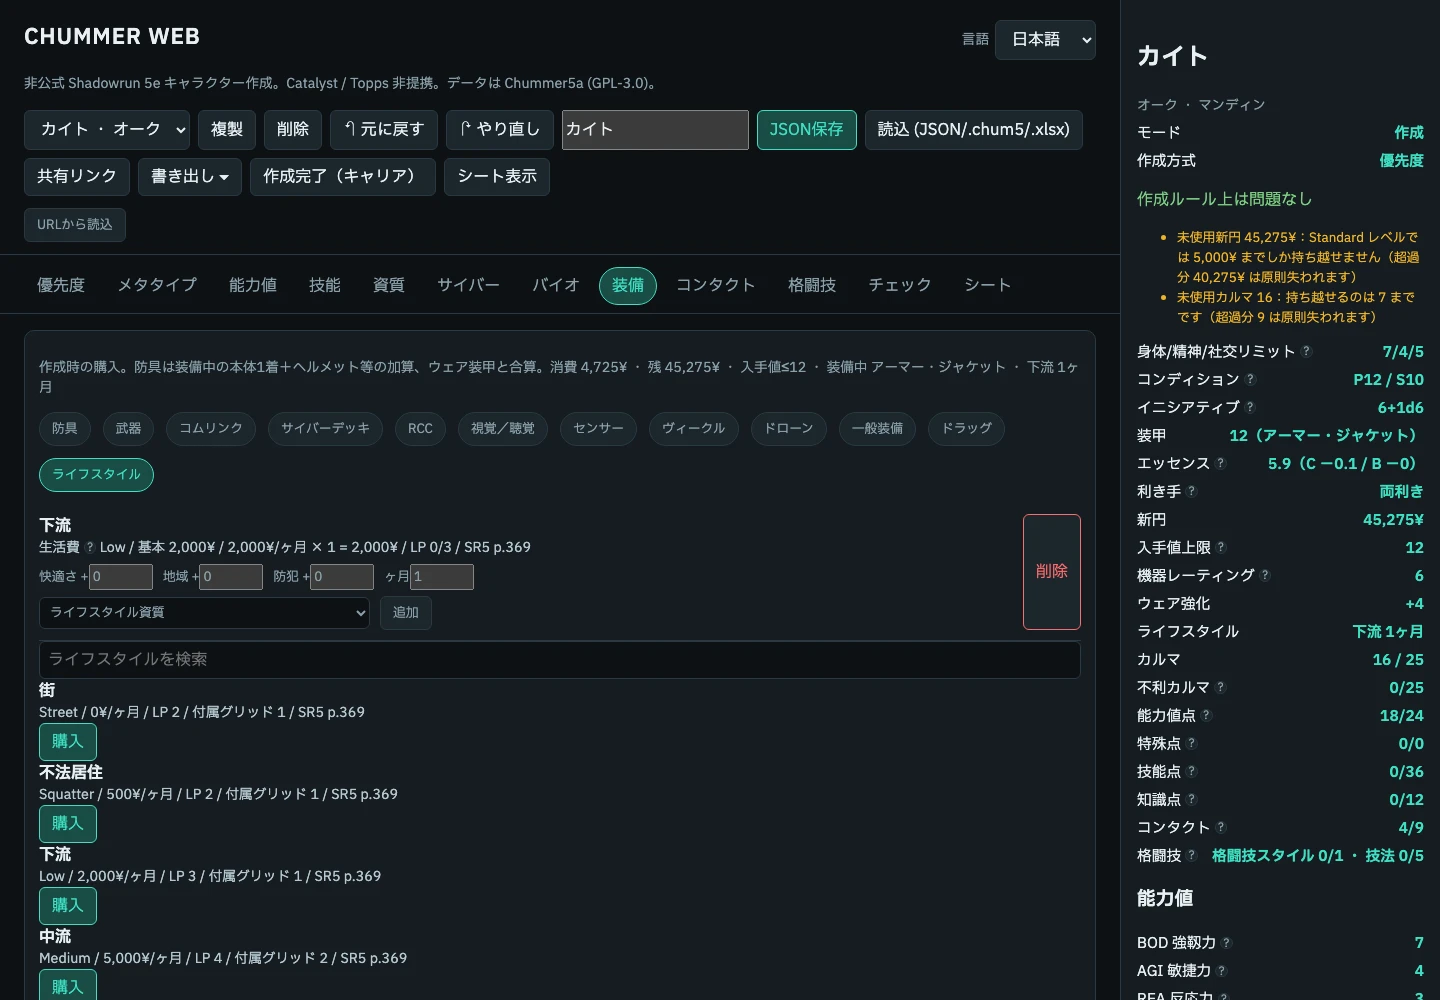
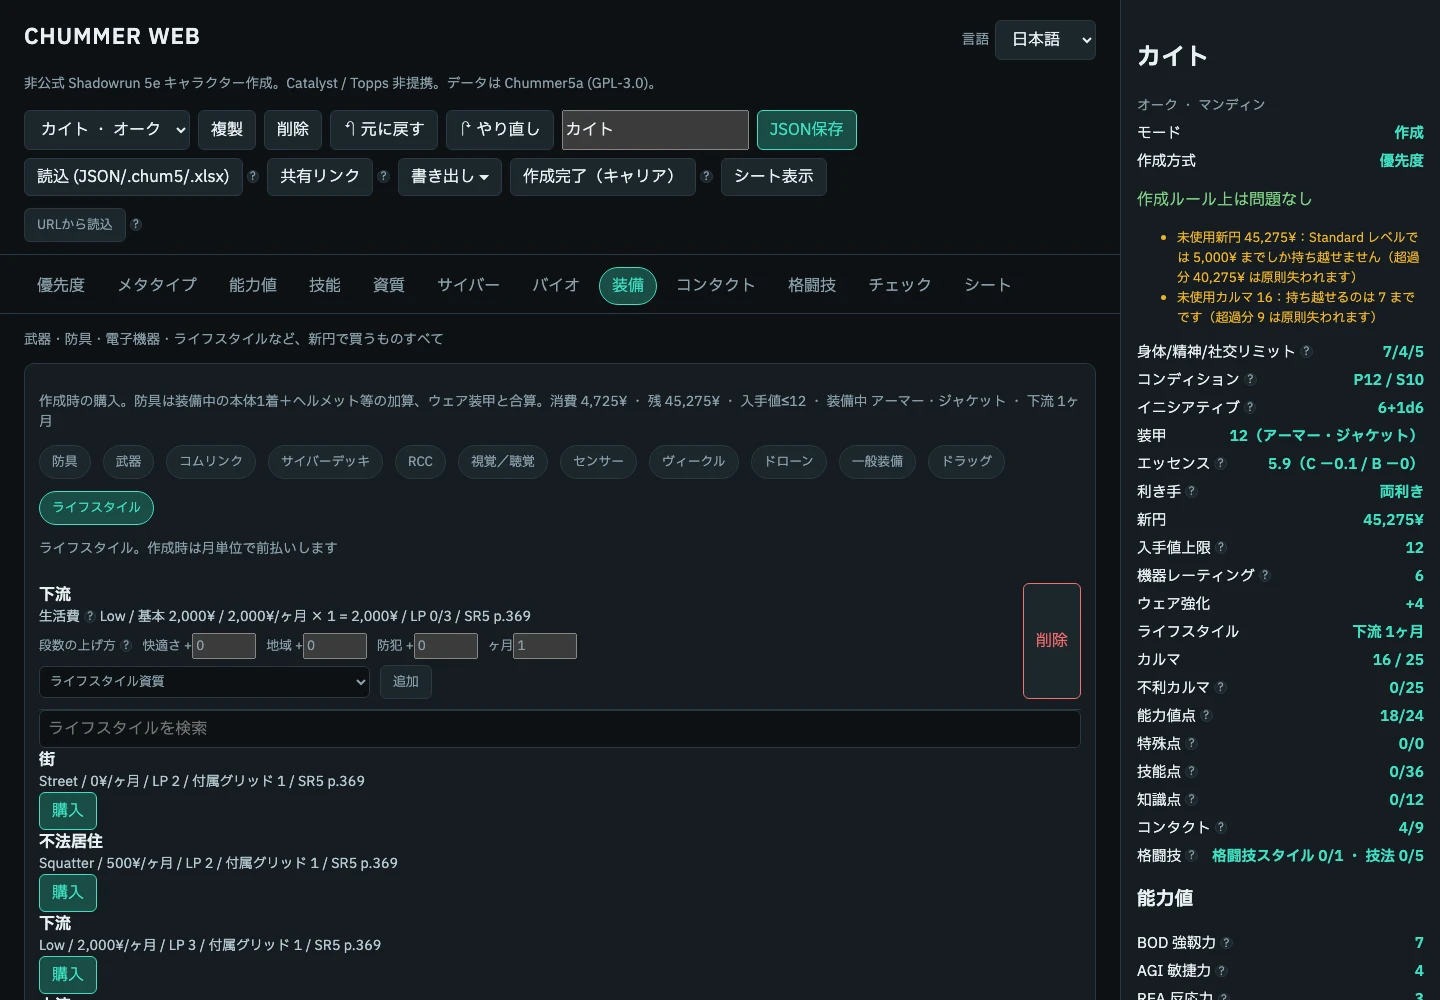
docs: the manual covers career mode and a table's settings; the compute map catches up (#746)
* docs(architecture): the compute map names every module, and movement's new home

#745 moved resolve_movement out of finalize; nine helper modules split off
since the map was written were not on it.

* docs(manual): capture career mode and a loaded settings folder, retake the rest

The capture script switches the sample into career, logs a reward, raises AGI
and shoots the reward panel with its breakdown open; then it loads a small
settings-and-customdata folder and shoots the picker. The other shots are
retaken so the "?" tips from #740-#744 show.

* docs(manual): explain career mode and loading a table's settings

Career mode: rewards, raises, the breakdown, what qualities, MAG / RES and
Street Cred cost in play, and that going back to creation drops the starting
point (undo brings it back). Settings: the two load buttons, the customdata
warning, unsupported house rules and forgetting a file. docs/chargen.md says
the same.

---------

diff --git a/frontend/public/manual/index.html b/frontend/public/manual/index.html
@@ -231,7 +231,7 @@
       <p class="shot-note">
         掲載している画面は、このマニュアル用に作ったオークのサンプル「カイト」のものです。
         魔法・共振・A.I.・クリッターのタブだけは、そのタブが出る別のサンプル（アヤ・レン・ゴースト・ジャック）で撮っています。
-        本文と画面は v0.5.13（2026年10月23日撮影）の表記に合わせています。
+        本文と画面は v0.5.13 の後の開発版（2026年10月23日撮影）の表記に合わせています。
         数値は操作説明用のサンプルで、作成完了済みのキャラクターではありません。
       </p>
 
@@ -299,6 +299,49 @@
             本を手でいじるとプリセット名は外れ「カスタム」になります。設定の数値（ハウスルール）は残ります。
           </li>
         </ol>
+
+        <h3 id="settings">卓のセッティングを使う</h3>
+        <figure>
+          <img
+            src="img/ui-settings-folder.webp"
+            alt="セッティングの欄。プルダウンに読み込んだ「卓のハウスルール」が選ばれ、使用ルールブック 2 / 93、「このセッティングを削除」ボタン、「カスタムデータを 1 件適用しました」と内訳の表（qualities.xml・追加・1 件・Table Favor）"
+          />
+          <figcaption>
+            settings と customdata
+            のフォルダを読み込んだところ。何が足されたかは「内訳を見る」で確かめます。
+          </figcaption>
+        </figure>
+        <p>
+          Chummer
+          で卓のハウスルールを作ってある場合は、そのセッティングを読み込めます。ファイルはこのブラウザに残り、サーバーには送られません
+          （カスタムデータは、結合した結果だけが計算のために一時的に置かれます）。
+        </p>
+        <ul>
+          <li>
+            <strong>セッティングを読み込む</strong>: Chummer の <code>settings/</code> にある
+            <code>.xml</code> を 1 つ選びます。<code>settings/</code> と
+            <code>customdata/</code> を固めた <code>.zip</code> も読めます（フォルダを選べない
+            Android などはこちら）。
+          </li>
+          <li>
+            <strong>スタイル一式を読み込む</strong>: <code>settings/</code> と
+            <code>customdata/</code>
+            が並んだフォルダを、フォルダごと選びます。中のセッティングはすべてプルダウンの「読み込んだファイル」に入り、選んだものに合わせてカスタムデータ（追加の資質・装備など）が結合されます。
+          </li>
+          <li>
+            セッティングがカスタムデータを使っているのに
+            <code>.xml</code>
+            だけを読んだ場合は、警告が出ます。読み込むまで、カスタムデータによる追加・変更は効きません。警告の中の
+            <strong>customdata ごと読み込む</strong>からフォルダを選び直してください。
+          </li>
+          <li>
+            このアプリが扱えないハウスルールがあると、その一覧が出ます。そこに挙がった項目は、数値や選択肢が
+            Chummer と食い違います。
+          </li>
+          <li>
+            読み込んだセッティングは<strong>このセッティングを削除</strong>でブラウザから消せます。キャラクターは消えません。
+          </li>
+        </ul>
 
         <h3>作成方式は 4 つ</h3>
         <table>
@@ -702,12 +745,63 @@
           </figcaption>
         </figure>
 
-        <h3>キャリアモードへ</h3>
+        <h3 id="career">キャリアモードへ</h3>
         <p>
-          <strong>作成完了（キャリア）</strong
-          >でキャリアモードに切り替わります。以降はカルマと新円で成長し、資質に払うカルマも
-          変わります（SR5
-          p.107）。エラーが残っていても確認の上で進めることはできます。同じボタンで作成モードに戻せます。
+          ツールバーの<strong>作成完了（キャリア）</strong>でキャリアモードに切り替わります。ボタンの表示は「キャリア中」になります。エラーが残っていても、確認のうえで進めます。
+          切り替えた時点の能力値・技能・資質・持ち物が記録され、それより後の変更はすべてカルマと新円で支払う成長として数えます。
+        </p>
+        <figure>
+          <img
+            src="img/ui-career-sidebar.webp"
+            alt="キャリア中のサイドバー。報酬合計 12K / 6,000¥、報酬「港の倉庫」の行と削除ボタン、ラベル・カルマ・新円の入力欄と「報酬を追加」、内訳を開いた状態のカルマ消費（能力値 AGI 4→5 が 25K）と新円消費"
+          />
+          <figcaption>
+            キャリア中のサイドバー。ランの報酬を足し、何に払ったかを「成長／買い物の内訳」で確かめます。
+          </figcaption>
+        </figure>
+        <ol>
+          <li>
+            <strong>報酬を足す</strong>: サイドバーの「ラベル」（ラン名など）と
+            K（カルマ）・¥（新円）を入れて <strong>報酬を追加</strong>。1
+            行ずつ残るので、どのランで何を得たか後から辿れます。間違えた行は「削除」で消せます。
+          </li>
+          <li>
+            <strong>成長させる</strong>:
+            能力値・技能・資質・装備のタブで、作成時と同じように値を上げたり品目を買ったりします。
+            払うのは点数ではなくカルマと新円です。能力値は上げた後の値 ×5 カルマです（SR5 p.107）。
+          </li>
+          <li>
+            <strong>内訳を見る</strong>:
+            <strong>成長／買い物の内訳</strong>を押すと、カルマ消費と新円消費が 1 行ずつ出ます。
+            残りはサイドバーの「カルマ」と「新円」です。
+          </li>
+        </ol>
+        <ul>
+          <li>
+            <strong>資質</strong>: キャリアで取る有利な資質は 2
+            倍のカルマです。不利な資質を外すとき（買い戻し）も、得たカルマの 2 倍を払います（SR5
+            p.107）。キャリアで不利な資質を取ってもカルマは入りません。資質タブの各行に、キャリアで要るカルマが出ます。
+          </li>
+          <li>
+            <strong>魔力・共振力</strong>:
+            ウェアでエッセンスが減っている場合、上げるのに要るカルマはエッセンスで下がった後の値から決まります。
+            1 段ずつ、上げた時点の減り方で計算します。
+          </li>
+          <li>
+            <strong>ストリートの評判</strong>: 得たカルマの合計から計算されます。GM
+            が別に与えた分は「SC 補正」に入れます。 「SC を 2 燃やす」で悪名を 1 減らせます（SR5
+            p.373）。
+          </li>
+          <li>
+            セッティングが割り増しを決めている場合、キャリアで買った入手値 R・F
+            の品目には割り増しが付きます。作成時に買った分には付きません。
+          </li>
+          <li>残カルマ→新円のスライダーは作成中だけです。キャリアでは使えません。</li>
+        </ul>
+        <p class="note">
+          「キャリア中」をもう一度押すと作成モードに戻ります。このとき、切り替えた時点の記録は消えます。
+          もう一度キャリアに入ると、その時点の値が新しい起点になり、それまでの成長はカルマを払わなかった扱いになります。
+          間違えて押したときは<strong>元に戻す</strong>（Ctrl/⌘+Z）で戻してください。
         </p>
 
         <h3>書き出しと共有</h3>

diff --git a/docs/chargen.md b/docs/chargen.md
@@ -35,6 +35,21 @@
 3. 本を手でいじるとプリセット名は外れ「カスタム」になります。設定の数値（ハウスルール）は
    残ります。
 
+卓のハウスルールを Chummer で作ってある場合は、次の 2 つのボタンで読み込みます。ファイルは
+ブラウザに残り、サーバーには送られません（カスタムデータは、結合した結果だけが計算のために
+一時的に置かれます）。
+
+- **セッティングを読み込む**: `settings/` の `.xml` を 1 つ、または `settings/` と
+  `customdata/` を固めた `.zip`（フォルダを選べない Android などはこちら）。
+- **スタイル一式を読み込む**: `settings/` と `customdata/` が並んだフォルダをフォルダごと。
+  中のセッティングはすべてプルダウンに入り、選んだものに合わせてカスタムデータが結合されます。
+  適用した件数と「内訳を見る」が出ます。
+
+`.xml` だけを読んだセッティングがカスタムデータを使っていると警告が出ます。警告の
+**customdata ごと読み込む** からフォルダを選び直すまで、カスタムデータの追加・変更は効きません。
+このアプリが扱えないハウスルールは一覧で出ます（その項目は Chummer と食い違います）。
+読み込んだセッティングは **このセッティングを削除** で消せます（キャラクターは消えません）。
+
 続いて**作成方式**を 4 つから選びます。
 
 | 方式             | 内容                                                                              |
@@ -140,14 +155,37 @@ A.I.（E-Ghost・Xenosapient・Protosapient を含む）は、使用ルールブ
 
 ## 9. 完成させて遊ぶ
 
-- **作成完了（キャリア）**: キャリアモードに切り替えます。以降はカルマと新円で成長し、
-  資質に払うカルマも変わります（SR5 p.107）。エラーが残っていても確認の上で進めることはできます。
-  同じボタンで作成モードに戻せます。
+- **作成完了（キャリア）**: キャリアモードに切り替えます（下の「キャリアモード」）。
 - **シート**タブ: 完成したキャラクターシート。レイアウトを選んで印刷（ダイアログで
   「PDF として保存」も選べます）。
 - **書き出し**: JSON（バックアップ）、`.chum5`（Chummer 本体で開く）、`.xlsx`、Foundry VTT、
   ココフォリア、ユドナリウム、チャットパレット。詳細は [`exports.md`](exports.md)。
 - **共有リンク**: 読み取り専用の URL を作れます。[`share-link.md`](share-link.md)。
+
+## キャリアモード
+
+ツールバーの **作成完了（キャリア）** で切り替えます。エラーが残っていても確認のうえで進めます。
+切り替えた時点の能力値・技能・資質・持ち物が記録され、それより後の変更はすべてカルマと新円で
+払う成長として数えます。
+
+1. **報酬を足す**: サイドバーの「ラベル」（ラン名など）・K・¥ を入れて **報酬を追加**。
+   1 行ずつ残り、「削除」で消せます。
+2. **成長させる**: 各タブで作成時と同じように値を上げ、品目を買います。払うのはカルマと新円です。
+   能力値は上げた後の値 ×5 カルマです（SR5 p.107）。
+3. **内訳を見る**: **成長／買い物の内訳** で、カルマ消費と新円消費が 1 行ずつ出ます。
+
+- 資質: キャリアで取る有利な資質と、不利な資質の買い戻しは 2 倍のカルマです。キャリアで
+  取った不利な資質はカルマをくれません（SR5 p.107）。
+- 魔力・共振力: エッセンスが減っていると、エッセンスで下がった後の値で要るカルマが決まります
+  （1 段ずつ、上げた時点の減り方で）。
+- ストリートの評判: 得たカルマから計算され、GM が与えた分は「SC 補正」に入れます。
+  「SC を 2 燃やす」で悪名が 1 減ります（SR5 p.373）。
+- セッティングが割り増しを決めている場合、キャリアで買った入手値 R・F の品目に割り増しが付きます。
+- 残カルマ→新円のスライダーは作成中だけです。
+
+「キャリア中」をもう一度押すと作成モードに戻り、切り替えた時点の記録は消えます。再びキャリアに
+入るとその時点が新しい起点になり、それまでの成長はカルマを払わなかった扱いになります。間違えた
+ときは **元に戻す**（`Ctrl/⌘+Z`）で戻せます。
 
 ## 困ったときに
 

diff --git a/docs/architecture.md b/docs/architecture.md
@@ -276,18 +276,30 @@ Welcome as PRs. Keep every commit individually green (`make check`).
      (quality gather + effects + binders + `resolve_attribute_selects`),
      `ware.py`, `essence.py` (essence penalty + the ratings loop), `magic.py`
      (initiation / submersion / foci / adept + spells / spirits / resonance),
-     `gear.py` (carries `resolve_gear` in with it + post-gear application),
+     `gear.py` (carries `resolve_gear` in with it + post-gear application;
+     the worn-armour / weapon / commlink rows are built in `gear_rows.py`, the
+     Black Market Pipeline discount in `gear_market.py`),
      `economy.py` (the entry point; one module per pass —
      `_econ_priority.py` / `_econ_skills.py` / `_econ_karma.py` /
      `_econ_social.py`) with the
      career-layer helpers in `_career.py` (`snapshot_career_baseline` /
-     `career_raise_karma` / `nuyen_spend_breakdown`), `finalize.py` (totals
-     check + limits / CM / initiative + quality rules + chargen validation,
-     carries `resolve_movement`), `assemble.py` (the ~175-key `state.derived`
+     `career_raise_karma` / `nuyen_spend_breakdown`) and `_career_qualities.py`
+     (quality karma after chargen, SR5 p.107), `finalize.py` (totals
+     check + limits / CM / initiative + quality rules + chargen validation),
+     `assemble.py` (the ~175-key `state.derived`
      literal — typed `DerivedDict` (`derived_types.py`), key-parity with the
      frontend's `Character["derived"]` pinned by
-     `tests/test_derived_contract.py` — carries `_effective_attr_spec`). `compute/__init__.py` is
-     ~60 lines: build one `Ctx`, run the phases, return `ctx.state`. No
+     `tests/test_derived_contract.py`; the quality rows, metatype info and
+     `_effective_attr_spec` live in `_assemble_qualities.py`, the
+     out-of-book warning in `_assemble_books.py`). Helpers several phases
+     share: `_quality_ctx.py` (the context a quality's `<required>` tree is
+     read against, built for both `economy` and `finalize`),
+     `_movement.py` (`resolve_movement`, used by `finalize` and
+     `_shapeshifter`), `_shapeshifter.py` (the metahuman form beside the
+     animal one), and `_life_modules.py` / `_life_module_skills.py` (the
+     free ratings life modules grant, kept apart from what the player
+     bought, and their bridge into the skill passes). `compute/__init__.py` is
+     ~100 lines: build one `Ctx`, run the phases, return `ctx.state`. No
      behaviour change — `tests/test_snapshot.py` guards byte-identical output
      and `tests/test_compute_phases.py` pins the *seams*: it drives the same
      phase sequence by hand, asserts the `ctx` slice each phase owns after it

diff --git a/changelog.d/manual-career-settings.added.md b/changelog.d/manual-career-settings.added.md
@@ -1,0 +1,6 @@
+- **The manual explains career mode and a table's own settings.** Career mode
+  gets a screenshot of the reward log and the spend breakdown, how raises,
+  qualities, MAG / RES and Street Cred are paid for in play, and what going
+  back to creation does to the starting point. A new section shows how to load
+  a Chummer settings file or a whole settings-and-customdata folder. Every
+  screenshot was retaken so the "?" tips added since v0.5.13 show.
